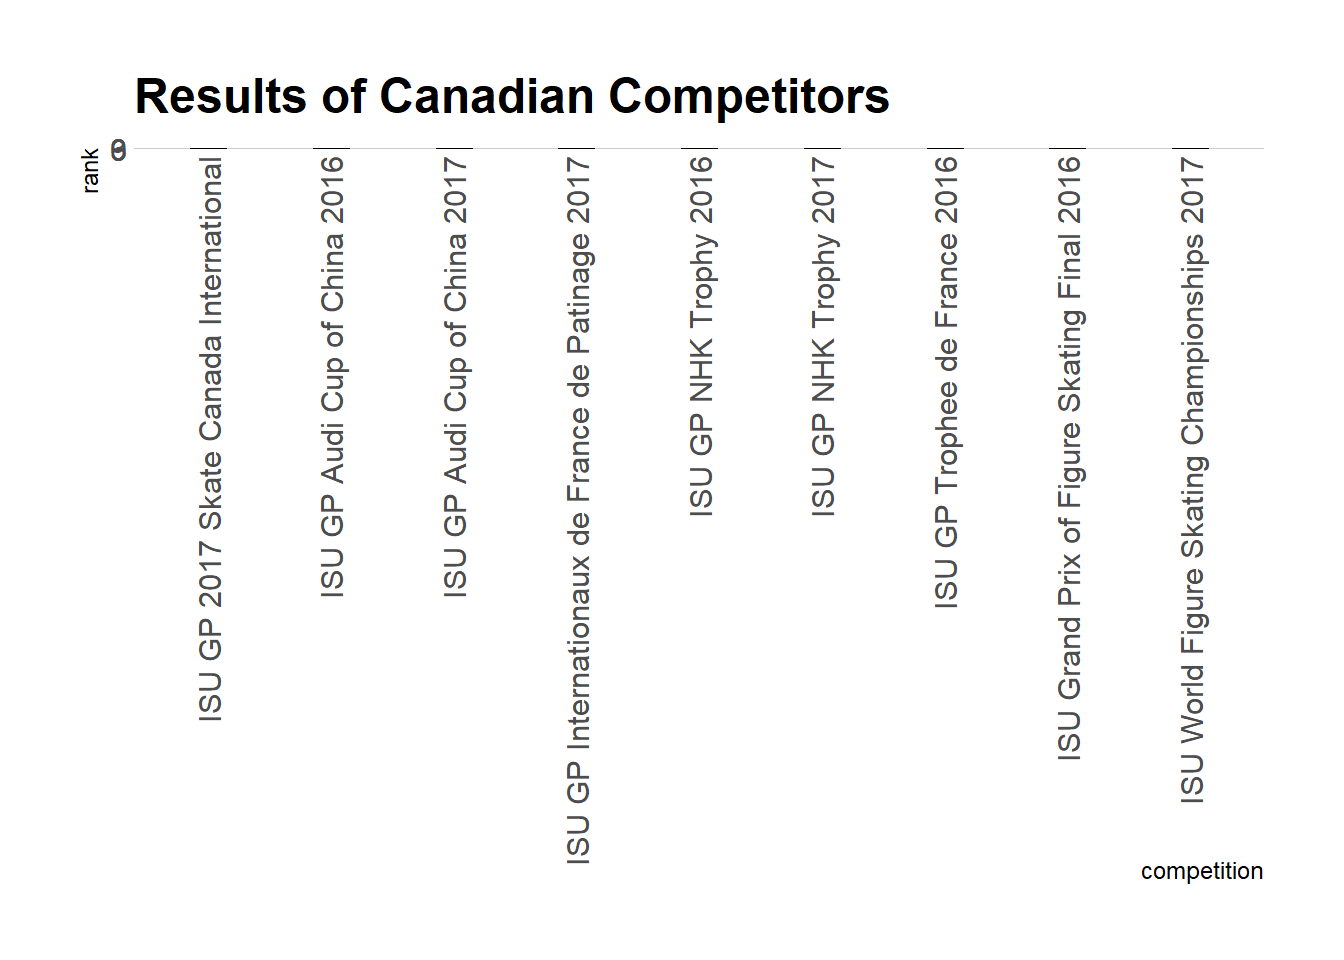
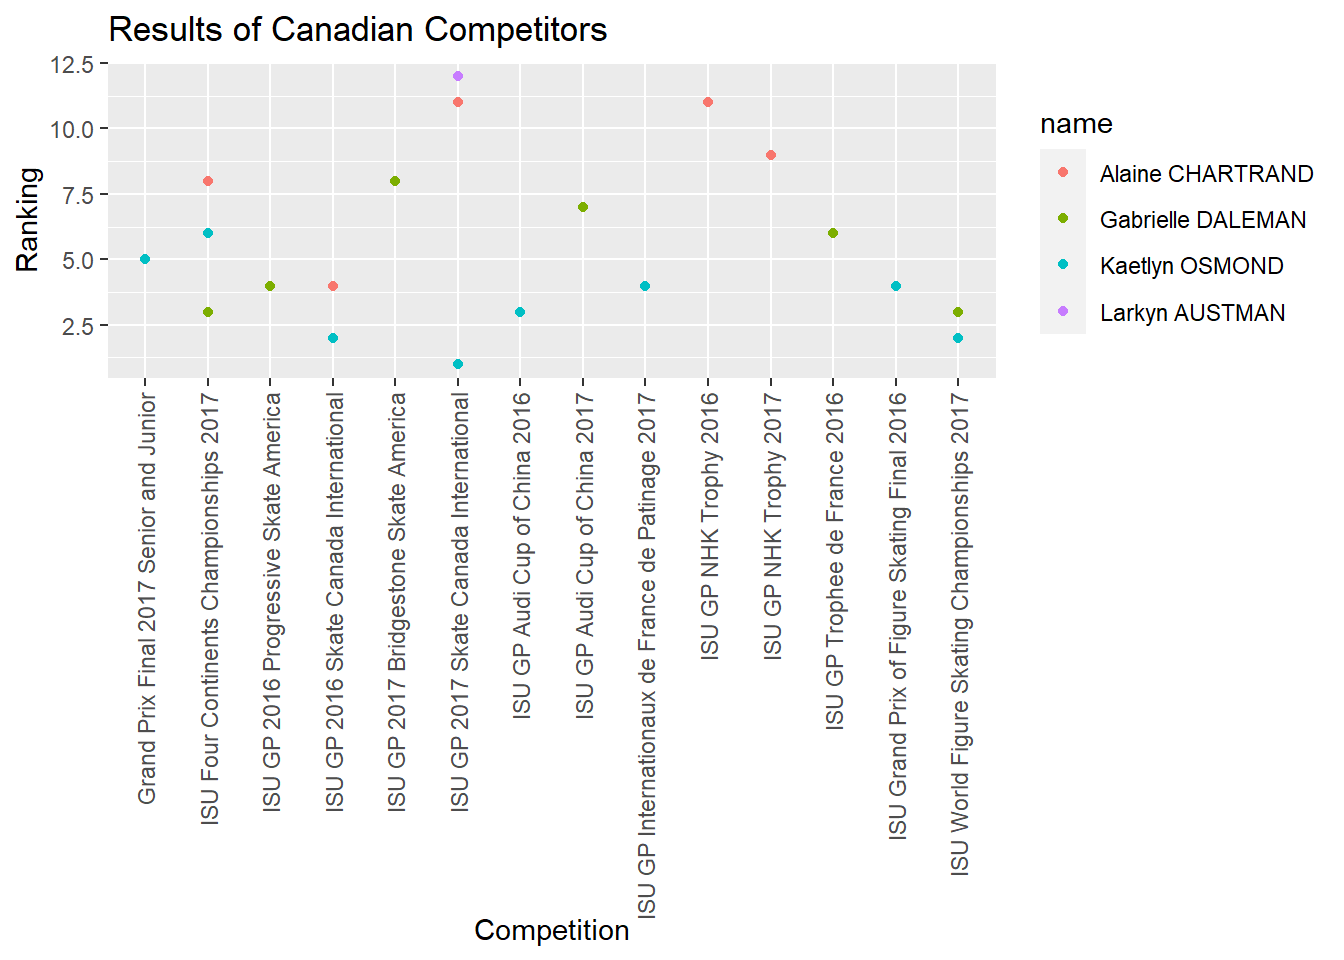
try

diff --git a/content/post/2021-06-22-p01-final-project/index.html b/content/post/2021-06-22-p01-final-project/index.html
@@ -44,128 +44,28 @@ output: html_document
 <iframe src="https://lyssalu98.shinyapps.io/DataAnalytics2/" height="800" width="100%" frameborder="no">
 </iframe>
 </div>
-<div id="section-canadian-figure-skaters-are-some-of-the-best-in-the-world.-the-following-graph-shows-scores-for-the-various-canadian-figure-skaters-in-competitions." class="section level4">
-<h4>Canadian figure skaters are some of the best in the world. The following graph shows scores for the various Canadian figure skaters in competitions.</h4>
-<pre class="r"><code>canadian_results &lt;- performances %&gt;%
-  select(everything()) %&gt;%
-  filter(program == &quot;LADIES FREE SKATING&quot;, nation == &quot;CAN&quot;)
-
-canadian_results %&gt;%
-  tail(10) %&gt;%
-  ggplot( aes(x=competition, y=rank)) +
-    geom_line( color=&quot;grey&quot;) +
-    geom_point(shape=10, color=&quot;black&quot;, fill=&quot;#69b3a2&quot;, size=6) +
-    theme_ipsum() +
-    theme(axis.text.x = element_text(angle = 90, vjust = 0.5, hjust=1)) +
-    ggtitle(&quot;Results of Canadian Competitors&quot;) +
-    labs(colour = &quot;name&quot;) </code></pre>
-<pre><code>## Warning in grid.Call(C_textBounds, as.graphicsAnnot(x$label), x$x, x$y, : font
-## family not found in Windows font database
-
-## Warning in grid.Call(C_textBounds, as.graphicsAnnot(x$label), x$x, x$y, : font
-## family not found in Windows font database
-
-## Warning in grid.Call(C_textBounds, as.graphicsAnnot(x$label), x$x, x$y, : font
-## family not found in Windows font database
-
-## Warning in grid.Call(C_textBounds, as.graphicsAnnot(x$label), x$x, x$y, : font
-## family not found in Windows font database
-
-## Warning in grid.Call(C_textBounds, as.graphicsAnnot(x$label), x$x, x$y, : font
-## family not found in Windows font database
-
-## Warning in grid.Call(C_textBounds, as.graphicsAnnot(x$label), x$x, x$y, : font
-## family not found in Windows font database
-
-## Warning in grid.Call(C_textBounds, as.graphicsAnnot(x$label), x$x, x$y, : font
-## family not found in Windows font database
-
-## Warning in grid.Call(C_textBounds, as.graphicsAnnot(x$label), x$x, x$y, : font
-## family not found in Windows font database
-
-## Warning in grid.Call(C_textBounds, as.graphicsAnnot(x$label), x$x, x$y, : font
-## family not found in Windows font database</code></pre>
-<pre><code>## Warning in grid.Call.graphics(C_text, as.graphicsAnnot(x$label), x$x, x$y, :
-## font family not found in Windows font database
-
-## Warning in grid.Call.graphics(C_text, as.graphicsAnnot(x$label), x$x, x$y, :
-## font family not found in Windows font database
-
-## Warning in grid.Call.graphics(C_text, as.graphicsAnnot(x$label), x$x, x$y, :
-## font family not found in Windows font database
-
-## Warning in grid.Call.graphics(C_text, as.graphicsAnnot(x$label), x$x, x$y, :
-## font family not found in Windows font database
-
-## Warning in grid.Call.graphics(C_text, as.graphicsAnnot(x$label), x$x, x$y, :
-## font family not found in Windows font database
-
-## Warning in grid.Call.graphics(C_text, as.graphicsAnnot(x$label), x$x, x$y, :
-## font family not found in Windows font database
-
-## Warning in grid.Call.graphics(C_text, as.graphicsAnnot(x$label), x$x, x$y, :
-## font family not found in Windows font database
-
-## Warning in grid.Call.graphics(C_text, as.graphicsAnnot(x$label), x$x, x$y, :
-## font family not found in Windows font database
-
-## Warning in grid.Call.graphics(C_text, as.graphicsAnnot(x$label), x$x, x$y, :
-## font family not found in Windows font database
-
-## Warning in grid.Call.graphics(C_text, as.graphicsAnnot(x$label), x$x, x$y, :
-## font family not found in Windows font database
-
-## Warning in grid.Call.graphics(C_text, as.graphicsAnnot(x$label), x$x, x$y, :
-## font family not found in Windows font database
-
-## Warning in grid.Call.graphics(C_text, as.graphicsAnnot(x$label), x$x, x$y, :
-## font family not found in Windows font database
-
-## Warning in grid.Call.graphics(C_text, as.graphicsAnnot(x$label), x$x, x$y, :
-## font family not found in Windows font database
-
-## Warning in grid.Call.graphics(C_text, as.graphicsAnnot(x$label), x$x, x$y, :
-## font family not found in Windows font database
-
-## Warning in grid.Call.graphics(C_text, as.graphicsAnnot(x$label), x$x, x$y, :
-## font family not found in Windows font database
-
-## Warning in grid.Call.graphics(C_text, as.graphicsAnnot(x$label), x$x, x$y, :
-## font family not found in Windows font database
-
-## Warning in grid.Call.graphics(C_text, as.graphicsAnnot(x$label), x$x, x$y, :
-## font family not found in Windows font database</code></pre>
-<pre><code>## Warning in grid.Call(C_textBounds, as.graphicsAnnot(x$label), x$x, x$y, : font
-## family not found in Windows font database</code></pre>
-<pre><code>## Warning in grid.Call.graphics(C_text, as.graphicsAnnot(x$label), x$x, x$y, :
-## font family not found in Windows font database</code></pre>
-<pre><code>## Warning in grid.Call(C_textBounds, as.graphicsAnnot(x$label), x$x, x$y, : font
-## family not found in Windows font database</code></pre>
+<div id="section-canadian-figure-skaters-are-some-of-the-best-in-the-world.-the-following-graph-shows-rankings-of-the-various-canadian-figure-skaters-in-competitions." class="section level4">
+<h4>Canadian figure skaters are some of the best in the world. The following graph shows rankings of the various Canadian figure skaters in competitions.</h4>
 <p><img src="{{< blogdown/postref >}}index_files/figure-html/unnamed-chunk-8-1.png" width="672" /></p>
-<pre class="r"><code>canadian_results  </code></pre>
-<pre><code>## # A tibble: 20 x 11
-##    performance_id competition      program   name   nation  rank starting_number
-##    &lt;chr&gt;          &lt;chr&gt;            &lt;chr&gt;     &lt;chr&gt;  &lt;chr&gt;  &lt;dbl&gt;           &lt;dbl&gt;
-##  1 3e969440ef     Grand Prix Fina~ LADIES F~ Kaetl~ CAN        5               4
-##  2 b9208a8511     ISU Four Contin~ LADIES F~ Alain~ CAN        8               7
-##  3 f689dd7cff     ISU Four Contin~ LADIES F~ Kaetl~ CAN        6              21
-##  4 d707eb4832     ISU Four Contin~ LADIES F~ Gabri~ CAN        3              22
-##  5 19a3ae3f4d     ISU GP 2016 Pro~ LADIES F~ Gabri~ CAN        4               6
-##  6 82918ed8f8     ISU GP 2016 Ska~ LADIES F~ Alain~ CAN        4               8
-##  7 0d45fb5765     ISU GP 2016 Ska~ LADIES F~ Kaetl~ CAN        2              10
-##  8 df01cedeba     ISU GP 2017 Bri~ LADIES F~ Gabri~ CAN        8              10
-##  9 feecc5ce51     ISU GP 2017 Ska~ LADIES F~ Alain~ CAN       11               2
-## 10 b51da21253     ISU GP 2017 Ska~ LADIES F~ Larky~ CAN       12               3
-## 11 f09ce03d6b     ISU GP 2017 Ska~ LADIES F~ Kaetl~ CAN        1              11
-## 12 7d9640cf7e     ISU GP Audi Cup~ LADIES F~ Kaetl~ CAN        3              11
-## 13 010e399739     ISU GP Audi Cup~ LADIES F~ Gabri~ CAN        7              10
-## 14 f9763670b4     ISU GP Internat~ LADIES F~ Kaetl~ CAN        4              11
-## 15 79ea386262     ISU GP NHK Trop~ LADIES F~ Alain~ CAN       11               4
-## 16 57553b2293     ISU GP NHK Trop~ LADIES F~ Alain~ CAN        9               1
-## 17 e555e60a9d     ISU GP Trophee ~ LADIES F~ Gabri~ CAN        6              12
-## 18 d553ae74f6     ISU Grand Prix ~ LADIES F~ Kaetl~ CAN        4               4
-## 19 801426936c     ISU World Figur~ LADIES F~ Gabri~ CAN        3              23
-## 20 27099b6d18     ISU World Figur~ LADIES F~ Kaetl~ CAN        2              24
+</div>
+<div id="section-from-this-graph-we-can-see-that-kaetlyn-osmond-is-most-often-in-the-top-5-of-her-age-group.-you-can-look-more-closely-at-her-scores-for-each-competition-below." class="section level4">
+<h4>From this graph we can see that Kaetlyn Osmond is most often in the top 5 of her age group. You can look more closely at her scores for each competition below.</h4>
+<pre class="r"><code>osmond &lt;- canadian_results %&gt;%
+  select(everything()) %&gt;%
+  filter(name == &quot;Kaetlyn OSMOND&quot;)
+
+osmond</code></pre>
+<pre><code>## # A tibble: 8 x 11
+##   performance_id competition       program   name   nation  rank starting_number
+##   &lt;chr&gt;          &lt;chr&gt;             &lt;chr&gt;     &lt;chr&gt;  &lt;chr&gt;  &lt;dbl&gt;           &lt;dbl&gt;
+## 1 3e969440ef     Grand Prix Final~ LADIES F~ Kaetl~ CAN        5               4
+## 2 f689dd7cff     ISU Four Contine~ LADIES F~ Kaetl~ CAN        6              21
+## 3 0d45fb5765     ISU GP 2016 Skat~ LADIES F~ Kaetl~ CAN        2              10
+## 4 f09ce03d6b     ISU GP 2017 Skat~ LADIES F~ Kaetl~ CAN        1              11
+## 5 7d9640cf7e     ISU GP Audi Cup ~ LADIES F~ Kaetl~ CAN        3              11
+## 6 f9763670b4     ISU GP Internati~ LADIES F~ Kaetl~ CAN        4              11
+## 7 d553ae74f6     ISU Grand Prix o~ LADIES F~ Kaetl~ CAN        4               4
+## 8 27099b6d18     ISU World Figure~ LADIES F~ Kaetl~ CAN        2              24
 ## # ... with 4 more variables: total_segment_score &lt;dbl&gt;,
 ## #   total_element_score &lt;dbl&gt;, total_component_score &lt;dbl&gt;,
 ## #   total_deductions &lt;dbl&gt;</code></pre>
